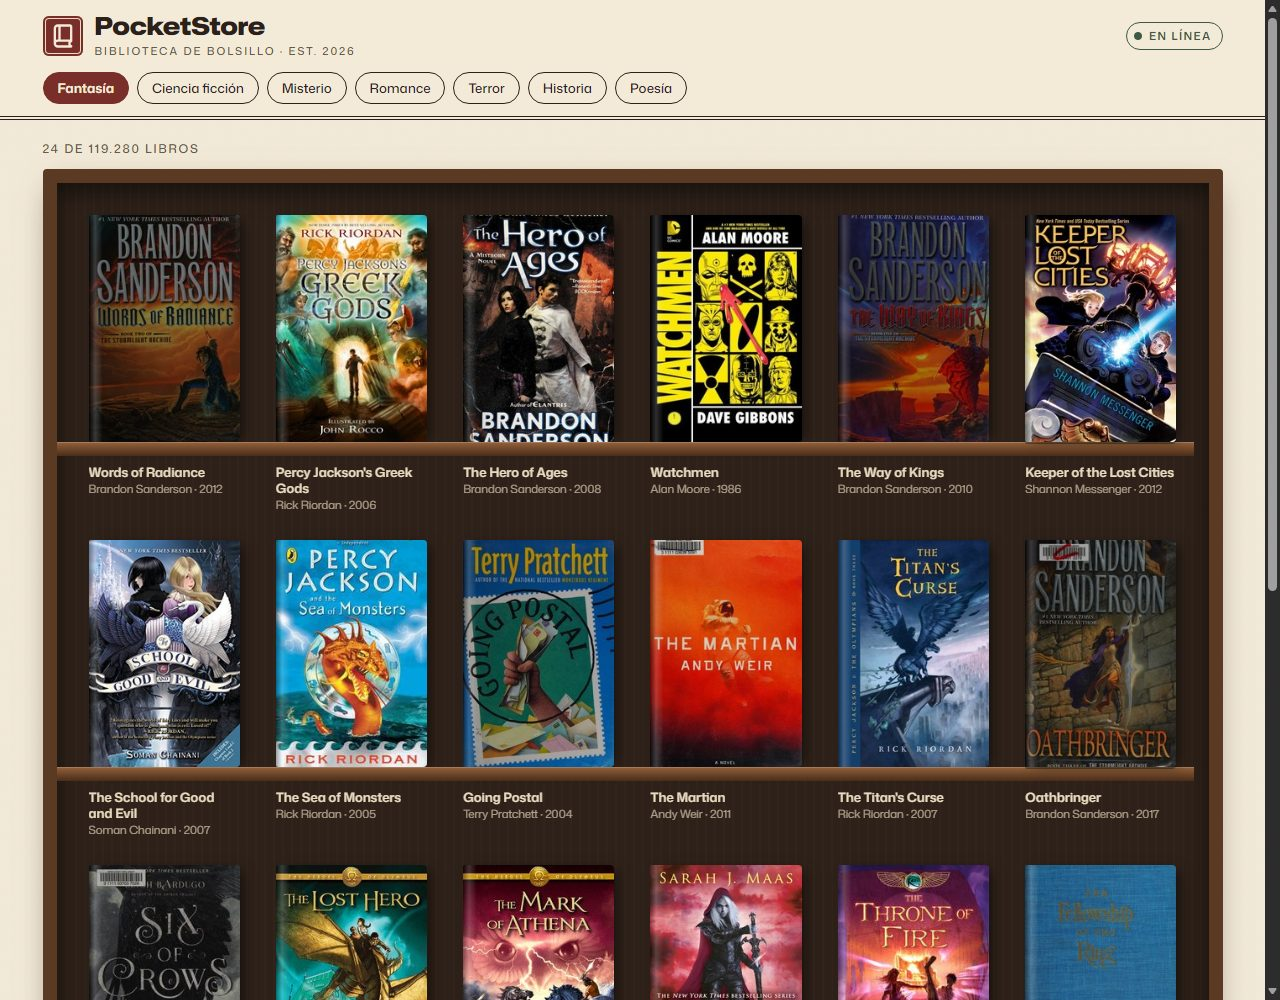
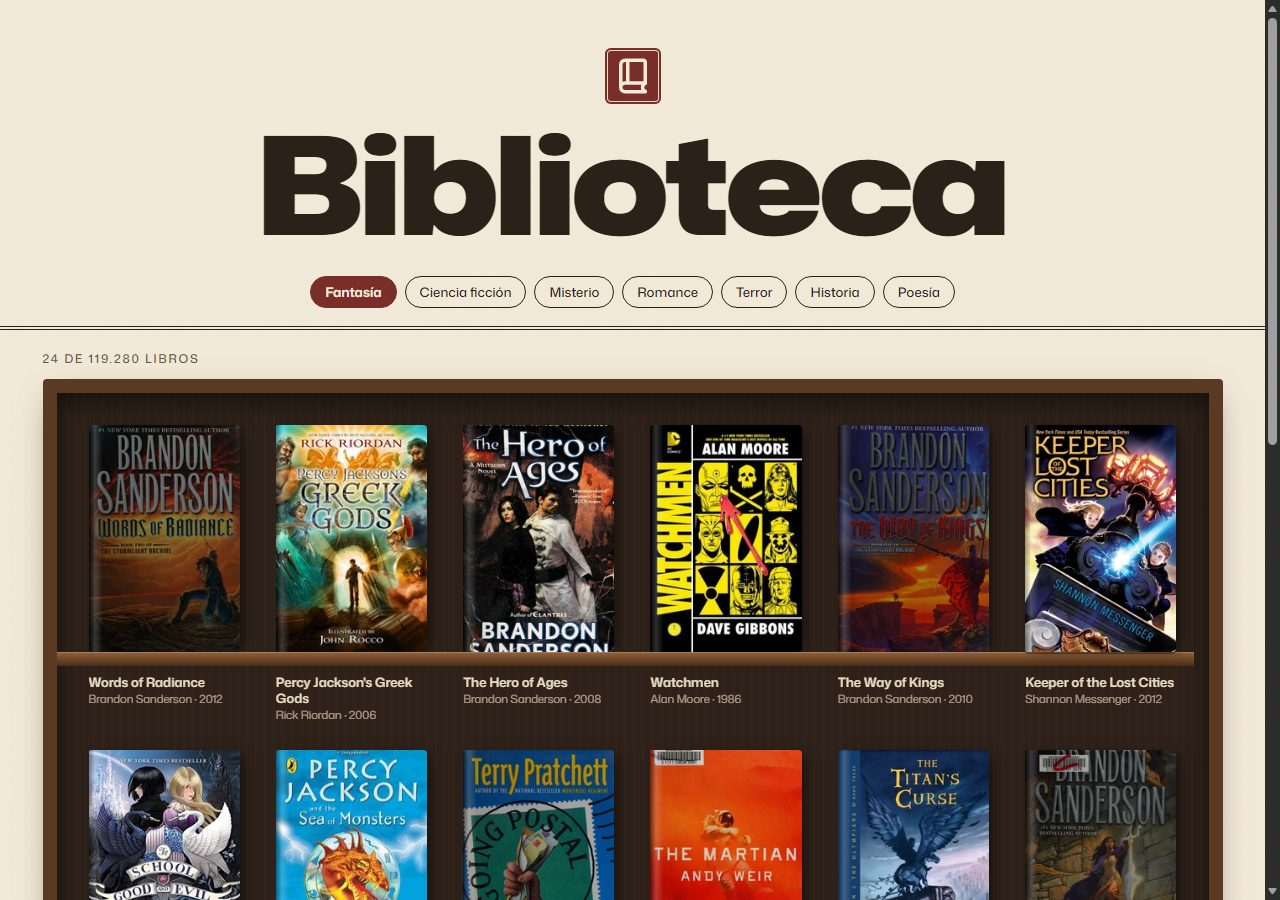
Título Biblioteca centrado, sin indicador de conexión ni pie de página

diff --git a/styles.css b/styles.css
@@ -1,5 +1,5 @@
 /* =========================================================
-   PocketStore · App Shell
+   Biblioteca · App Shell
    Paleta vintage: papel, tinta, vino, latón y madera.
    ========================================================= */
 :root {
@@ -21,9 +21,6 @@
 
 body {
   margin: 0;
-  min-height: 100vh;
-  display: flex;
-  flex-direction: column;
   font-family: "Mona Sans", system-ui, -apple-system, "Segoe UI", sans-serif;
   font-weight: 400;
   color: var(--ink);
@@ -36,87 +33,49 @@ a { color: inherit; }
 
 /* ---------- Barra superior ---------- */
 .topbar {
-  position: sticky;
-  top: 0;
-  z-index: 10;
-  background: var(--paper);
+  padding-top: clamp(24px, 5vw, 48px);
   border-bottom: 4px double var(--ink);
 }
 
-.topbar__inner,
 .genres,
 .main {
   width: min(1180px, 100% - 32px);
   margin-inline: auto;
 }
 
-.topbar__inner {
-  display: flex;
-  align-items: center;
-  justify-content: space-between;
-  gap: 16px;
-  padding-block: 14px 10px;
-}
-
+/* Título principal: grande y centrado */
 .brand {
   display: flex;
+  flex-direction: column;
   align-items: center;
-  gap: 12px;
-  text-decoration: none;
+  gap: clamp(10px, 2vw, 18px);
+  margin: 0;
+  font-size: clamp(2.75rem, 11vw, 8.5rem);
+  font-weight: 900;
+  font-stretch: 125%;
+  letter-spacing: -.02em;
+  line-height: .9;
+  text-align: center;
 }
 
 .brand__logo {
-  width: 40px;
-  height: 40px;
-  padding: 6px;
+  width: clamp(40px, 5vw, 56px);
+  height: clamp(40px, 5vw, 56px);
+  padding: 7px;
   fill: var(--paper);
   background: var(--wine);
   border-radius: 6px;
   box-shadow: inset 0 0 0 2px var(--wine), inset 0 0 0 3px var(--paper-2);
 }
 
-.brand__name {
-  display: block;
-  font-size: 1.55rem;
-  font-weight: 850;
-  font-stretch: 125%;
-  letter-spacing: -.01em;
-  line-height: 1;
-}
-
-.brand__tagline {
-  display: block;
-  margin-top: 4px;
-  font-size: .68rem;
-  font-weight: 500;
-  letter-spacing: .18em;
-  text-transform: uppercase;
-  color: var(--ink-soft);
-}
-
-.net {
-  flex-shrink: 0;
-  font-size: .7rem;
-  font-weight: 600;
-  letter-spacing: .12em;
-  text-transform: uppercase;
-  padding: 5px 10px 5px 22px;
-  border: 1px solid currentColor;
-  border-radius: 99px;
-  color: #3d5a45;
-  background: radial-gradient(circle at 11px 50%, currentColor 3.5px, transparent 4.5px);
-}
-.net.is-offline { color: var(--wine); }
-
-/* ---------- Géneros ---------- */
+/* ---------- Géneros (debajo del título) ---------- */
 .genres {
   display: flex;
+  flex-wrap: wrap;
+  justify-content: center;
   gap: 8px;
-  overflow-x: auto;
-  padding-block: 4px 12px;
-  scrollbar-width: none;
+  padding-block: clamp(20px, 3vw, 32px) 18px;
 }
-.genres::-webkit-scrollbar { display: none; }
 
 .chip {
   flex-shrink: 0;
@@ -141,8 +100,7 @@ a { color: inherit; }
 
 /* ---------- Contenido ---------- */
 .main {
-  flex: 1;
-  padding-block: 20px 32px;
+  padding-block: 20px 48px;
 }
 
 .count {
@@ -339,21 +297,6 @@ a { color: inherit; }
 }
 .btn:hover { background: var(--wine); box-shadow: inset 0 0 0 1px var(--wine), inset 0 0 0 3px var(--paper); }
 .btn:disabled { opacity: .6; cursor: progress; }
-
-/* ---------- Pie de página ---------- */
-.footer {
-  padding: 18px 16px 24px;
-  border-top: 4px double var(--ink);
-  text-align: center;
-  font-size: .78rem;
-  font-weight: 500;
-}
-.footer p { margin: 0; }
-.footer .footer__note {
-  margin-top: 4px;
-  font-weight: 300;
-  color: var(--ink-soft);
-}
 
 @media (min-width: 720px) {
   :root { --gap: 36px; --plank: 14px; }

diff --git a/index.html b/index.html
@@ -3,7 +3,7 @@
 <head>
   <meta charset="UTF-8">
   <meta name="viewport" content="width=device-width, initial-scale=1">
-  <title>PocketStore · Biblioteca de bolsillo</title>
+  <title>Biblioteca</title>
   <meta name="description" content="Catálogo de libros que funciona sin conexión.">
   <meta name="theme-color" content="#7a2e2a">
 
@@ -25,16 +25,10 @@
 <body>
   <!-- ===== App Shell: esta estructura es estática y se pinta al instante ===== -->
   <header class="topbar">
-    <div class="topbar__inner">
-      <a class="brand" href="./" aria-label="PocketStore, inicio">
-        <svg class="brand__logo" viewBox="0 -960 960 960" aria-hidden="true"><path d="M240-347q14-7 29-10t31-3h20v-440h-20q-25 0-42.5 17.5T240-740v393Zm160-13h320v-440H400v440Zm-160 13v-453 453Zm60 267q-58 0-99-41t-41-99v-520q0-58 41-99t99-41h420q33 0 56.5 23.5T800-800v501q0 8-6.5 14.5T770-270q-14 7-22 20t-8 30q0 17 8 30.5t22 19.5q14 6 22 16.5t8 22.5v10q0 17-11.5 29T760-80H300Zm0-80h373q-6-14-9.5-28.5T660-220q0-16 3-31t10-29H300q-26 0-43 17.5T240-220q0 26 17 43t43 17Z"/></svg>
-        <span>
-          <span class="brand__name">PocketStore</span>
-          <span class="brand__tagline">Biblioteca de bolsillo · Est. 2026</span>
-        </span>
-      </a>
-      <span class="net" id="net" role="status">En línea</span>
-    </div>
+    <h1 class="brand">
+      <svg class="brand__logo" viewBox="0 -960 960 960" aria-hidden="true"><path d="M240-347q14-7 29-10t31-3h20v-440h-20q-25 0-42.5 17.5T240-740v393Zm160-13h320v-440H400v440Zm-160 13v-453 453Zm60 267q-58 0-99-41t-41-99v-520q0-58 41-99t99-41h420q33 0 56.5 23.5T800-800v501q0 8-6.5 14.5T770-270q-14 7-22 20t-8 30q0 17 8 30.5t22 19.5q14 6 22 16.5t8 22.5v10q0 17-11.5 29T760-80H300Zm0-80h373q-6-14-9.5-28.5T660-220q0-16 3-31t10-29H300q-26 0-43 17.5T240-220q0 26 17 43t43 17Z"/></svg>
+      Biblioteca
+    </h1>
 
     <nav class="genres" id="genres" aria-label="Géneros">
       <!-- app.js crea los botones de género -->
@@ -63,9 +57,5 @@
     </div>
   </main>
 
-  <footer class="footer">
-    <p>PocketStore <span aria-hidden="true">✦</span> Datos de <a href="https://openlibrary.org" target="_blank" rel="noopener">Open Library</a></p>
-    <p class="footer__note">Lo que ya viste se queda guardado y funciona sin conexión.</p>
-  </footer>
 </body>
 </html>

diff --git a/app.js b/app.js
@@ -27,7 +27,6 @@ const $shelf = document.getElementById('shelf');
 const $genres = document.getElementById('genres');
 const $count = document.getElementById('count');
 const $more = document.getElementById('more');
-const $net = document.getElementById('net');
 
 const state = { subject: GENRES[0][0], page: 1, shown: 0, total: 0, request: 0 };
 
@@ -133,11 +132,6 @@ function renderGenres() {
   ).join('');
 }
 
-function updateNetwork() {
-  $net.textContent = navigator.onLine ? 'En línea' : 'Sin conexión';
-  $net.classList.toggle('is-offline', !navigator.onLine);
-}
-
 /* ---------- Eventos ---------- */
 $genres.addEventListener('click', (event) => {
   const chip = event.target.closest('.chip');
@@ -165,10 +159,6 @@ $shelf.addEventListener('error', (event) => {
   img.parentElement.outerHTML = plainCover(escapeHTML(img.alt.replace('Portada de ', '')), index);
 }, true);
 
-window.addEventListener('online', updateNetwork);
-window.addEventListener('offline', updateNetwork);
-
 /* ---------- Inicio ---------- */
 renderGenres();
-updateNetwork();
 registerServiceWorker().then(() => loadBooks(true));

diff --git a/sw.js b/sw.js
@@ -5,7 +5,7 @@
    - fetch:    "cache first": si ya está guardado se sirve desde
                la caché; si no, se pide a internet y se guarda.
    ========================================================= */
-const SHELL_CACHE = 'pocketstore-shell-v1';
+const SHELL_CACHE = 'pocketstore-shell-v2';
 const DATA_CACHE = 'pocketstore-data-v1';
 
 const APP_SHELL = [

diff --git a/README.md b/README.md
@@ -1,13 +1,13 @@
-# 📚 PocketStore · Biblioteca de bolsillo
+# 📚 PocketStore · Biblioteca
 
-Aplicación web progresiva (PWA) de una sola página que muestra un catálogo de libros en forma de **estantería**, con datos de la [Open Library API](https://openlibrary.org/developers/api). Está hecha con **HTML, CSS y JavaScript puro (Vanilla JS)** y **funciona sin internet** después de la primera visita.
+Práctica **PocketStore**: aplicación web progresiva (PWA) de una sola página, titulada **Biblioteca**, que muestra un catálogo de libros en forma de **estantería**, con datos de la [Open Library API](https://openlibrary.org/developers/api). Está hecha con **HTML, CSS y JavaScript puro (Vanilla JS)** y **funciona sin internet** después de la primera visita.
 
-![PocketStore en escritorio](images/resultado-escritorio.jpg)
+![Biblioteca en escritorio](images/resultado-escritorio.jpg)
 
 ## Características
 
-- **App Shell** que se pinta al instante: barra superior, estantería con lugares vacíos (esqueleto) y pie de página.
-- **Estilo vintage**: papel, tinta, vino, latón y madera, con la tipografía **Mona Sans** (Google Fonts) en varios pesos (300 a 850) y su eje de ancho para el título.
+- **App Shell** que se pinta al instante: encabezado con el título **Biblioteca** grande y centrado, las categorías debajo y una estantería con lugares vacíos (esqueleto).
+- **Estilo vintage**: papel, tinta, vino, latón y madera, con la tipografía **Mona Sans** (Google Fonts) en varios pesos (300 a 850) y su eje de ancho (125 %) para el título.
 - **Animación suave y rápida**: los libros aparecen escalonados (340 ms) y las portadas entran con un fundido. Si el usuario tiene activado "reducir movimiento", las animaciones se desactivan.
 - **Offline**: la primera carga trae los datos de internet. Desde la segunda, todo sale de la caché del Service Worker. Solo se vuelve a usar la red cuando se piden datos nuevos (otro género o "Cargar más libros").
 - **Instalable**: tiene manifiesto e iconos de 192 × 192 y 512 × 512.
@@ -43,7 +43,7 @@ También funciona con la extensión **Live Server** de VS Code o publicándolo e
 1. Abre la app una vez con internet.
 2. Abre DevTools → **Application** → **Service Workers** y comprueba que `sw.js` está *activated*.
 3. En **Network**, cambia a **Offline** y recarga la página: la estantería carga igual.
-4. En **Application → Cache Storage** se ven las dos cachés: `pocketstore-shell-v1` y `pocketstore-data-v1`.
+4. En **Application → Cache Storage** se ven las dos cachés: `pocketstore-shell-v2` y `pocketstore-data-v1`.
 
 ---
 
@@ -61,7 +61,7 @@ Se escribió a mano el archivo JSON con:
 
 | Propiedad | Valor | Para qué sirve |
 |---|---|---|
-| `name` / `short_name` | PocketStore · Biblioteca de bolsillo / PocketStore | Nombre completo y nombre bajo el icono |
+| `name` / `short_name` | Biblioteca / Biblioteca | Nombre completo y nombre bajo el icono |
 | `start_url` | `./index.html` | Página que abre la app instalada |
 | `display` | `standalone` | Se abre como app, sin la barra del navegador |
 | `background_color` | `#f3ead8` (papel) | Color de la pantalla de carga |
@@ -72,11 +72,10 @@ Los iconos PNG tienen un diseño propio: tres libros y uno inclinado sobre una r
 
 ### Paso 2 · El App Shell (`index.html` y `styles.css`)
 
-Se diseñó la estructura estática que siempre está presente:
+Se diseñó la estructura estática que siempre está presente. Se dejó minimalista, sin barra de estado ni pie de página, para que la atención quede en los libros:
 
-- **Barra superior** (`<header>`): logo, nombre, eslogan, indicador *En línea / Sin conexión* y los botones de género.
+- **Encabezado** (`<header>`): el título **Biblioteca** en tamaño muy grande y centrado (crece con la pantalla usando `clamp()`) y, debajo, los botones de género.
 - **Contenedor principal** (`<main>`): la estantería (`<ul id="shelf">`). Ya trae **8 lugares vacíos** que parpadean suavemente, así el usuario ve la forma de la página antes de que lleguen los datos.
-- **Pie de página** (`<footer>`): créditos a Open Library.
 
 Decisiones para que **cargue muy rápido**:
 
@@ -119,7 +118,7 @@ La estrategia del evento `fetch` es **Cache First**:
 
 Así se cumple la regla: **la primera vez los datos llegan de internet y después ya no**, salvo que se pidan datos nuevos.
 
-> Para publicar cambios en el App Shell hay que subir la versión (`pocketstore-shell-v2`). El evento `activate` borra la caché anterior.
+> Para publicar cambios en el App Shell hay que subir la versión (por ejemplo, `pocketstore-shell-v3`). El evento `activate` borra la caché anterior.
 
 ### Paso 4 · El Contenido Dinámico (`app.js`)
 
@@ -137,7 +136,6 @@ Así se cumple la regla: **la primera vez los datos llegan de internet y despué
 4. **Interacción.**
    - Botones de **género** (Fantasía, Ciencia ficción, Misterio, Romance, Terror, Historia, Poesía).
    - Botón **Cargar más libros** (paginación).
-   - Indicador de conexión con los eventos `online` y `offline`.
 
 ### Paso 5 · Documentación
 
